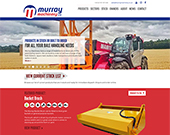
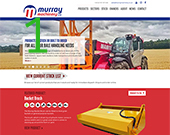
sample gallery images

Changed region(s): [[0.1471, 0.1185, 0.2941, 0.4148]]

diff --git a/website/css/sugarshaker.css b/website/css/sugarshaker.css
@@ -532,8 +532,22 @@ form {
   .work-example * {
     color: #262825; }
 
+.gallery-images {
+  display: flex;
+  flex-wrap: nowrap;
+  overflow-y: hidden;
+  overflow-x: scroll;
+  -webkit-overflow-scrolling: touch; }
+  .gallery-images a {
+    display: inline-block;
+    text-decoration: none;
+    margin-right: 15px;
+    flex: 0 0 auto; }
+    .gallery-images a:nth-last-child(1) {
+      margin-right: 0; }
+
 .image-gallery {
-  padding: 0 30px 20px; }
+  padding-bottom: 20px; }
 
 .image-stage {
   margin-bottom: 15px;
@@ -689,22 +703,24 @@ form {
       padding-right: 70px; }
   .page-header {
     padding-bottom: 20px; }
-  .page-detail .detail-row {
-    display: flex;
-    flex-direction: row;
-    justify-content: center;
-    padding-bottom: 40px;
-    flex-wrap: wrap; }
-    .page-detail .detail-row.reversed {
-      flex-direction: row-reverse; }
-    .page-detail .detail-row .copy {
-      margin: 0; }
-  .page-detail .title {
-    padding-bottom: 20px; }
-  .page-detail .imagery {
-    padding: 0 40px; }
-    .page-detail .imagery img {
-      max-width: 284px; } }
+  .page-detail {
+    padding-top: 15px; }
+    .page-detail .detail-row {
+      display: flex;
+      flex-direction: row;
+      justify-content: center;
+      padding-bottom: 40px;
+      flex-wrap: wrap; }
+      .page-detail .detail-row.reversed {
+        flex-direction: row-reverse; }
+      .page-detail .detail-row .copy {
+        margin: 0; }
+    .page-detail .title {
+      padding-bottom: 20px; }
+    .page-detail .imagery {
+      padding: 0 40px; }
+      .page-detail .imagery img {
+        max-width: 284px; } }
 
 /* ------ utils -------------*/
 .visually-hidden {

diff --git a/website/what-we-did.html b/website/what-we-did.html
@@ -103,10 +103,12 @@
                             <img src="images/work/murray-machinery-ltd.jpg" alt="Murray Machinery Ltd" id="main-image" />
                         </div>
                         <div class="gallery-images">
-                            <a href="images/work/murray-machinery-ltd.jpg">
-                                <img src="images/work/murray-machinery-ltd-thumb.jpg" alt="" >
-                            </a>
-
+                            <a href="images/work/murray-machinery-ltd.jpg"><img src="images/work/murray-machinery-ltd-thumb.jpg" alt="example 1" ></a>
+                            <a href="images/work/murray-machinery-ltd.jpg"><img src="images/work/murray-machinery-ltd-thumb.jpg" alt="example 1" ></a>
+                            <a href="images/work/murray-machinery-ltd.jpg"><img src="images/work/murray-machinery-ltd-thumb.jpg" alt="example 1" ></a>
+                            <a href="images/work/murray-machinery-ltd.jpg"><img src="images/work/murray-machinery-ltd-thumb.jpg" alt="example 1" ></a>
+                            <a href="images/work/murray-machinery-ltd.jpg"><img src="images/work/murray-machinery-ltd-thumb.jpg" alt="example 1" ></a>
+                            <a href="images/work/murray-machinery-ltd.jpg"><img src="images/work/murray-machinery-ltd-thumb.jpg" alt="example 1" ></a>
                         </div>
                     </div>
 

diff --git a/src/scss/sugarshaker.scss b/src/scss/sugarshaker.scss
@@ -469,9 +469,28 @@ $borerLine:     2px solid $brand-lGrey;
     }
 }
 
+.gallery-images {
+    display: flex;
+    flex-wrap: nowrap;
+    overflow-y: hidden;
+    overflow-x: scroll;
+    -webkit-overflow-scrolling: touch;
+
+    a {
+        display: inline-block;
+        text-decoration: none;
+        margin-right: 15px;
+        flex: 0 0 auto;
+
+        &:nth-last-child(1){
+            margin-right: 0;
+        }
+    }
+}
+
 .image-gallery {
 
-    padding: 0 30px 20px;
+    padding-bottom: 20px;
 
 }
 
@@ -743,6 +762,7 @@ $borerLine:     2px solid $brand-lGrey;
     }
 
     .page-detail {
+        padding-top: 15px;
 
         .detail-row {
             display: flex;
